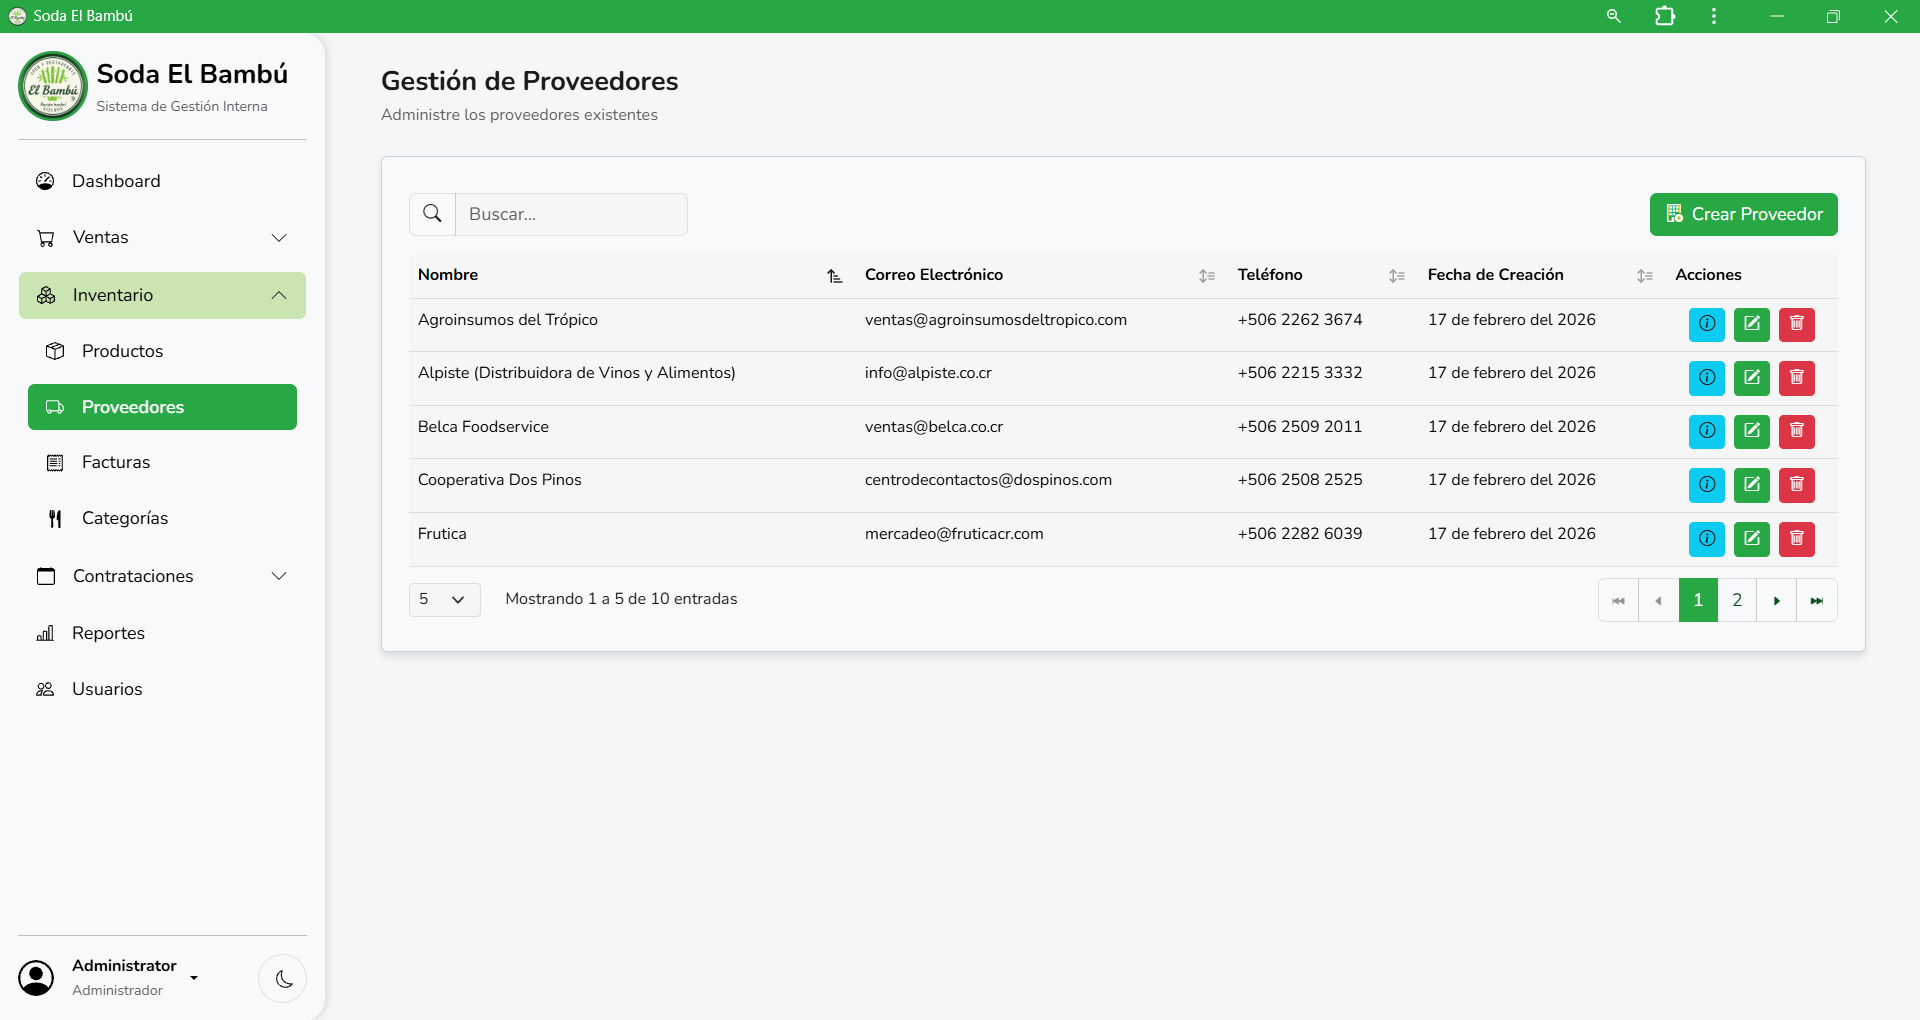
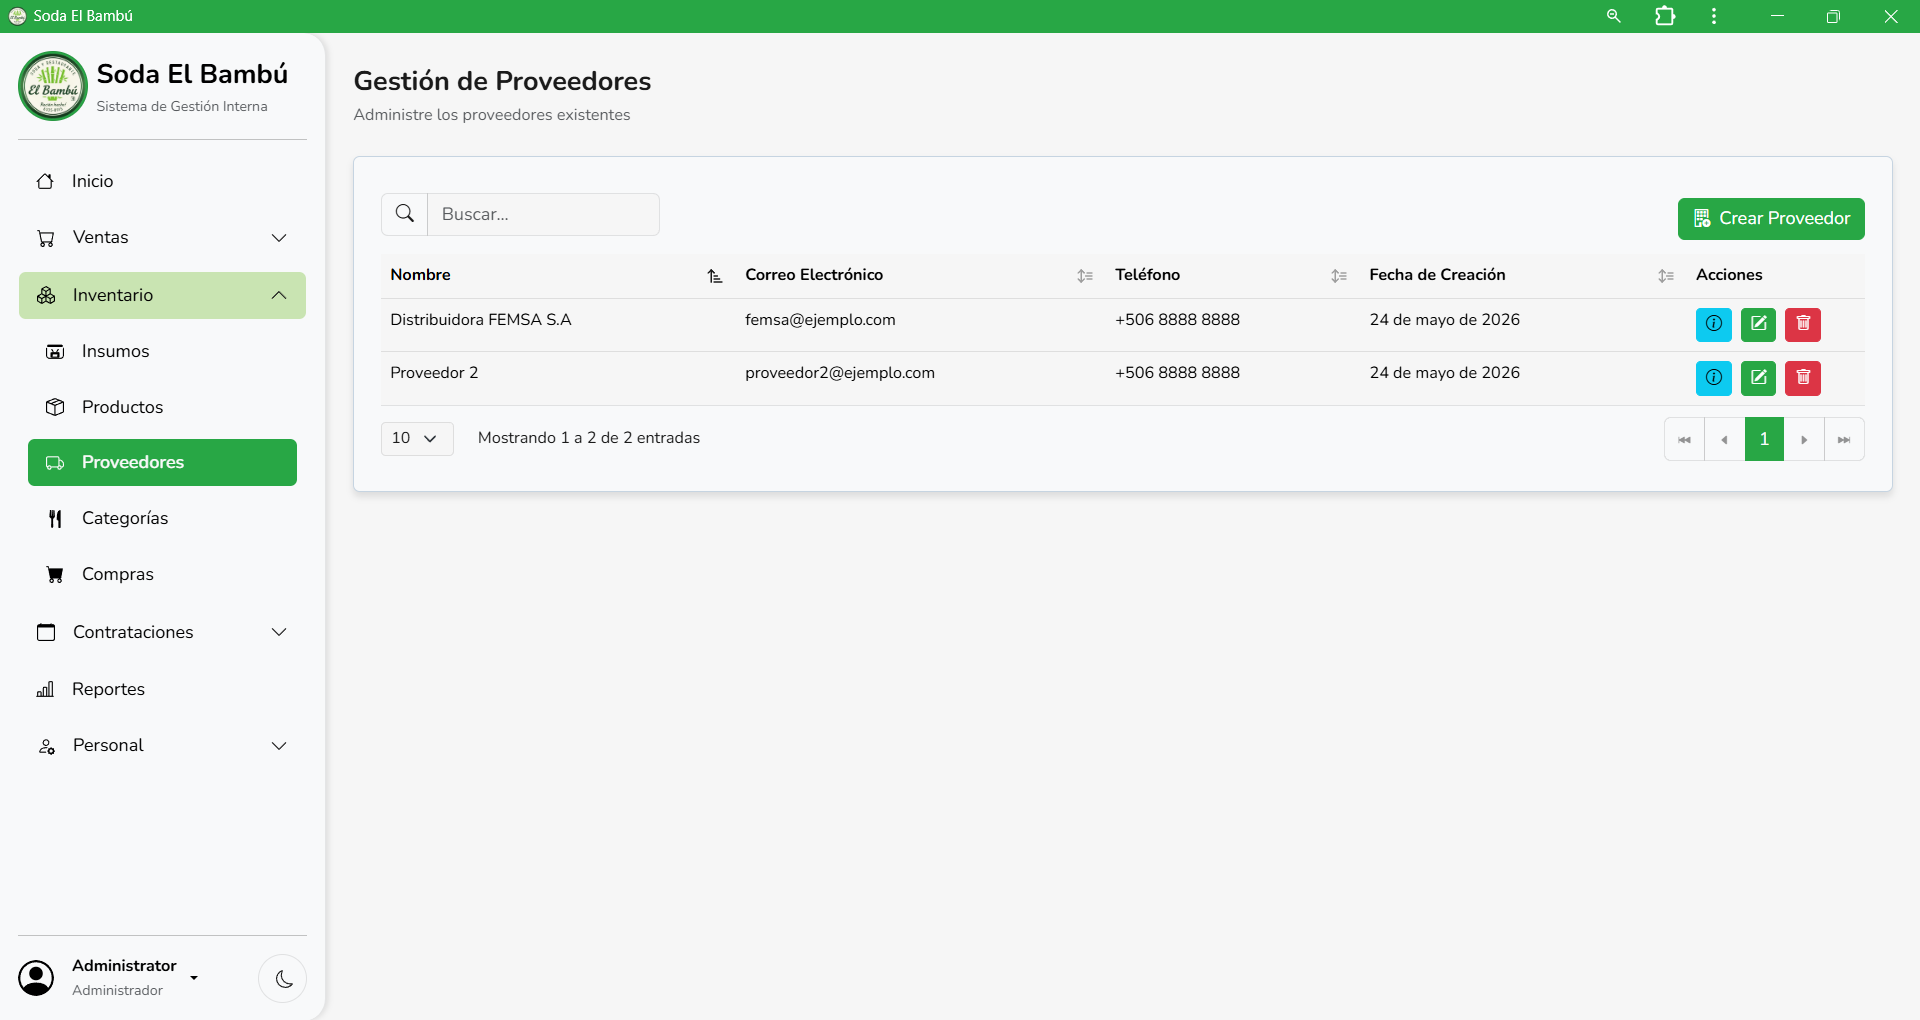
24-05-2026 Updates README to reflect new features and structure
- Enhances the README by clarifying and organizing the descriptions of system functionalities.
- Removes outdated notes about feature availability and adds detailed explanations for new modules, such as "Compras," "Reportes," and "Administración de Datos y Caja."
- Updates user interface screenshots to maintain consistency with the new functionalities.
- Improves overall readability and accessibility of the documentation for better user guidance.

diff --git a/README.md b/README.md
@@ -108,8 +108,6 @@ Esta estructura garantiza el control y la seguridad del acceso al sistema.
 
 En el sistema, las funcionalidades se organizan en módulos según el rol del usuario:
 
-> **Nota:** Muchas de las funcionalidades aún están en desarrollo, por lo que es posible que algunas de las funciones mencionadas a continuación no estén disponibles en la versión actual del sistema. Sin embargo, se espera que estas funcionalidades estén implementadas y operativas en futuras versiones del proyecto.
-
 #### 👤 Para Administradores
 
 1. **Gestión de Usuarios**
@@ -120,24 +118,36 @@ En el sistema, las funcionalidades se organizan en módulos según el rol del us
   - Visualiza métricas clave del sistema
   - Monitorea productos con stock bajo y próximos a vencer
 
-3. **Gestión de Catálogo**
+3. **Gestión de Catálogo e Inventario**
   - Administra productos, categorías, proveedores, clientes e insumos
   - Gestiona inventario con validaciones de negocio
 
-4. **Asistencia y Nómina**
+4. **Compras**
+  - Registra, edita, elimina y consulta compras a proveedores
+  - Revisa detalles por producto o insumo y pagos asociados
+
+5. **Reportes y Analítica**
+  - Consulta históricos y vistas detalladas de compras
+  - Genera reportes operativos para productos, ventas y suministros
+
+6. **Asistencia y Nómina**
   - Registra entradas y salidas del personal
   - Consulta historial por filtros y calcula salarios por periodo
 
-5. **Administración de Datos**
+7. **Administración de Datos y Caja**
   - Opera listados con búsqueda, filtros, ordenamiento y exportación
+  - Gestiona cierres y controles de caja para el flujo operativo
 
 #### 💼 Para Empleados
 
 1. **Punto de Venta**
   - Accede al módulo de ventas según permisos
 
-2. **Consulta de Inventario**
-  - Consulta disponibilidad de productos en el sistema
+2. **Consulta de Inventario y Catálogo**
+  - Consulta disponibilidad de productos, insumos y proveedores relacionados
+
+3. **Historial Operativo**
+  - Visualiza información de ventas y compras según los permisos definidos
   
 > **Nota:** Las funcionalidades disponibles pueden variar según el rol asignado a cada usuario. Asegúrate de iniciar sesión con el rol correcto para acceder a las funciones correspondientes.
 
@@ -554,23 +564,6 @@ Módulo para administrar la información de clientes del restaurante.
 
 ---
 
-### 🏢 Gestión de Proveedores
-
-Administración centralizada de proveedores e información de contacto.
-
-<div style="display: flex; gap: 20px; justify-content: center; align-items: flex-start;">
-  <div style="flex: 1; text-align: center;">
-    <h5>Tema Oscuro</h5>
-    <img src="assets/images/screenshots/suppliers_dark.png" alt="Proveedores Oscuro" style="max-width: 100%; height: auto; border-radius: 8px;">
-  </div>
-  <div style="flex: 1; text-align: center;">
-    <h5>Tema Claro</h5>
-    <img src="assets/images/screenshots/suppliers_light.png" alt="Proveedores Claro" style="max-width: 100%; height: auto; border-radius: 8px;">
-  </div>
-</div>
-
----
-
 ### 👤 Gestión de Usuarios
 
 Control de acceso y administración de cuentas de usuario del sistema.
@@ -583,6 +576,188 @@ Control de acceso y administración de cuentas de usuario del sistema.
   <div style="flex: 1; text-align: center;">
     <h5>Tema Claro</h5>
     <img src="assets/images/screenshots/users_light.png" alt="Usuarios Claro" style="max-width: 100%; height: auto; border-radius: 8px;">
+  </div>
+</div>
+
+---
+
+### 💼 Punto de Venta
+
+Pantalla principal para registrar ventas y operar el punto de venta.
+
+<div style="display: flex; gap: 20px; justify-content: center; align-items: flex-start;">
+  <div style="flex: 1; text-align: center;">
+    <h5>Tema Oscuro</h5>
+    <img src="assets/images/screenshots/sales_dark.png" alt="Ventas Oscuro" style="max-width: 100%; height: auto; border-radius: 8px;">
+  </div>
+  <div style="flex: 1; text-align: center;">
+    <h5>Tema Claro</h5>
+    <img src="assets/images/screenshots/sales_light.png" alt="Ventas Claro" style="max-width: 100%; height: auto; border-radius: 8px;">
+  </div>
+</div>
+
+---
+
+### 🧾 Gestión de Compras
+
+Módulo para registrar, consultar y analizar compras a proveedores.
+
+<div style="display: flex; gap: 20px; justify-content: center; align-items: flex-start;">
+  <div style="flex: 1; text-align: center;">
+    <h5>Tema Oscuro</h5>
+    <img src="assets/images/screenshots/purchases_dark.png" alt="Compras Oscuro" style="max-width: 100%; height: auto; border-radius: 8px;">
+  </div>
+  <div style="flex: 1; text-align: center;">
+    <h5>Tema Claro</h5>
+    <img src="assets/images/screenshots/purchases_light.png" alt="Compras Claro" style="max-width: 100%; height: auto; border-radius: 8px;">
+  </div>
+</div>
+
+---
+
+### 📦 Gestión de Inventario
+
+Vista para administrar productos, categorías, insumos y proveedores.
+
+<div style="display: flex; gap: 20px; justify-content: center; align-items: flex-start;">
+  <div style="flex: 1; text-align: center;">
+    <h5>Tema Oscuro</h5>
+    <img src="assets/images/screenshots/products_dark.png" alt="Productos Oscuro" style="max-width: 100%; height: auto; border-radius: 8px;">
+  </div>
+  <div style="flex: 1; text-align: center;">
+    <h5>Tema Claro</h5>
+    <img src="assets/images/screenshots/products_light.png" alt="Productos Claro" style="max-width: 100%; height: auto; border-radius: 8px;">
+  </div>
+</div>
+
+<div style="display: flex; gap: 20px; justify-content: center; align-items: flex-start;">
+  <div style="flex: 1; text-align: center;">
+    <img src="assets/images/screenshots/categories_dark.png" alt="Categorías Oscuro" style="max-width: 100%; height: auto; border-radius: 8px;">
+  </div>
+  <div style="flex: 1; text-align: center;">
+    <img src="assets/images/screenshots/categories_light.png" alt="Categorías Claro" style="max-width: 100%; height: auto; border-radius: 8px;">
+  </div>
+</div>
+
+<div style="display: flex; gap: 20px; justify-content: center; align-items: flex-start;">
+  <div style="flex: 1; text-align: center;">
+    <img src="assets/images/screenshots/supplies_dark.png" alt="Insumos Oscuro" style="max-width: 100%; height: auto; border-radius: 8px;">
+  </div>
+  <div style="flex: 1; text-align: center;">
+    <img src="assets/images/screenshots/supplies_light.png" alt="Insumos Claro" style="max-width: 100%; height: auto; border-radius: 8px;">
+  </div>
+</div>
+
+<div style="display: flex; gap: 20px; justify-content: center; align-items: flex-start;">
+  <div style="flex: 1; text-align: center;">
+    <img src="assets/images/screenshots/suppliers_dark.png" alt="Proveedores Oscuro" style="max-width: 100%; height: auto; border-radius: 8px;">
+  </div>
+  <div style="flex: 1; text-align: center;">
+    <img src="assets/images/screenshots/suppliers_light.png" alt="Proveedores Claro" style="max-width: 100%; height: auto; border-radius: 8px;">
+  </div>
+</div>
+
+---
+
+### 👥 Asistencia y Nómina
+
+Pantalla para registrar asistencia, consultar historial y calcular salarios.
+
+<div style="display: flex; gap: 20px; justify-content: center; align-items: flex-start;">
+  <div style="flex: 1; text-align: center;">
+    <h5>Tema Oscuro</h5>
+    <img src="assets/images/screenshots/attendance_dark.png" alt="Asistencia Oscuro" style="max-width: 100%; height: auto; border-radius: 8px;">
+  </div>
+  <div style="flex: 1; text-align: center;">
+    <h5>Tema Claro</h5>
+    <img src="assets/images/screenshots/attendance_light.png" alt="Asistencia Claro" style="max-width: 100%; height: auto; border-radius: 8px;">
+  </div>
+</div>
+
+<div style="display: flex; gap: 20px; justify-content: center; align-items: flex-start;">
+  <div style="flex: 1; text-align: center;">
+    <img src="assets/images/screenshots/attendance_history_dark.png" alt="Historial de Asistencia Oscuro" style="max-width: 100%; height: auto; border-radius: 8px;">
+  </div>
+  <div style="flex: 1; text-align: center;">
+    <img src="assets/images/screenshots/attendance_history_light.png" alt="Historial de Asistencia Claro" style="max-width: 100%; height: auto; border-radius: 8px;">
+  </div>
+</div>
+
+<div style="display: flex; gap: 20px; justify-content: center; align-items: flex-start;">
+  <div style="flex: 1; text-align: center;">
+    <img src="assets/images/screenshots/salary_dark.png" alt="Cálculo de Salarios Oscuro" style="max-width: 100%; height: auto; border-radius: 8px;">
+  </div>
+  <div style="flex: 1; text-align: center;">
+    <img src="assets/images/screenshots/salary_light.png" alt="Cálculo de Salarios Claro" style="max-width: 100%; height: auto; border-radius: 8px;">
+  </div>
+</div>
+
+---
+
+### 📈 Reportes
+
+Pantalla para consultar reportes operativos y analítica del sistema.
+
+<div style="display: flex; gap: 20px; justify-content: center; align-items: flex-start;">
+  <div style="flex: 1; text-align: center;">
+    <h5>Tema Oscuro</h5>
+    <img src="assets/images/screenshots/sales_reports_dark.png" alt="Reportes de Ventas Oscuro" style="max-width: 100%; height: auto; border-radius: 8px;">
+  </div>
+  <div style="flex: 1; text-align: center;">
+    <h5>Tema Claro</h5>
+    <img src="assets/images/screenshots/sales_reports_light.png" alt="Reportes de Ventas Claro" style="max-width: 100%; height: auto; border-radius: 8px;">
+  </div>
+</div>
+
+<div style="display: flex; gap: 20px; justify-content: center; align-items: flex-start;">
+  <div style="flex: 1; text-align: center;">
+    <img src="assets/images/screenshots/products_reports_dark.png" alt="Reportes de Productos Oscuro" style="max-width: 100%; height: auto; border-radius: 8px;">
+  </div>
+  <div style="flex: 1; text-align: center;">
+    <img src="assets/images/screenshots/products_reports_light.png" alt="Reportes de Productos Claro" style="max-width: 100%; height: auto; border-radius: 8px;">
+  </div>
+</div>
+
+---
+
+### 💳 Cierre y Control de Caja
+
+Vista para gestionar apertura, cierre y seguimiento de caja.
+
+<div style="display: flex; gap: 20px; justify-content: center; align-items: flex-start;">
+  <div style="flex: 1; text-align: center;">
+    <h5>Tema Oscuro</h5>
+    <img src="assets/images/screenshots/open-cash-register_dark.png" alt="Apertura de Caja Oscuro" style="max-width: 100%; height: auto; border-radius: 8px;">
+  </div>
+  <div style="flex: 1; text-align: center;">
+    <h5>Tema Claro</h5>
+    <img src="assets/images/screenshots/open-cash-register_light.png" alt="Apertura de Caja Claro" style="max-width: 100%; height: auto; border-radius: 8px;">
+  </div>
+</div>
+
+<div style="display: flex; gap: 20px; justify-content: center; align-items: flex-start;">
+  <div style="flex: 1; text-align: center;">
+    <img src="assets/images/screenshots/close-cash-register_dark.png" alt="Cierre de Caja Oscuro" style="max-width: 100%; height: auto; border-radius: 8px;">
+  </div>
+  <div style="flex: 1; text-align: center;">
+    <img src="assets/images/screenshots/close-cash-register_light.png" alt="Cierre de Caja Claro" style="max-width: 100%; height: auto; border-radius: 8px;">
+  </div>
+</div>
+
+---
+
+### 📄 Generación de Contratos
+
+Vista para generar un nuevo contrato.
+
+<div style="display: flex; gap: 20px; justify-content: center; align-items: flex-start;">
+  <div style="flex: 1; text-align: center;">
+    <h5>Tema Oscuro</h5>
+    <img src="assets/images/screenshots/new-contract_dark.png" alt="Nuevo Contrato Oscuro" style="max-width: 100%; height: auto; border-radius: 8px;">
+  </div>
+  <div style="flex: 1; text-align: center;">
+    <h5>Tema Claro</h5>
+    <img src="assets/images/screenshots/new-contract_light.png" alt="Nuevo Contrato Claro" style="max-width: 100%; height: auto; border-radius: 8px;">
   </div>
 </div>
 

diff --git a/source_code/README.md b/source_code/README.md
@@ -34,7 +34,18 @@ El sistema está diseñado como una aplicación web progresiva (PWA) que permite
 - **Dashboard administrativo**: visualización de indicadores de inventario (stock bajo y productos próximos a vencer).
 - **Ventas**: módulo de ventas disponible para administradores y empleados.
 - **Gestión de catálogo e inventario**: CRUD de productos, categorías, proveedores, clientes e insumos.
+- **Compras**: registro, edición, eliminación y consulta de compras con detalles por producto/insumo, pagos y reporte de suministros por proveedor.
+- **Reporte de compras**: historial de compras con filtros y vista detallada por proveedor para analizar qué productos o insumos han sido adquiridos.
+- **Catálogo de proveedores**: consulta de proveedores y relación directa con compras e insumos suministrados.
+- **Gestión de clientes**: administración de clientes para los módulos de atención y ventas.
+- **Gestión de categorías**: clasificación del catálogo de productos para mejorar búsqueda, inventario y reportes.
+- **Gestión de insumos**: control de insumos con sus unidades, precios y alertas de vencimiento.
 - **Asistencia de personal**: registro de entrada/salida, historial con filtros y cálculo de salario por periodo desde el módulo de asistencia.
+- **Contrataciones**: administración de empleados, contratos y documentación asociada.
+- **Reportes**: generación de reportes operativos y exportaciones para productos y ventas.
+- **Usuarios y permisos**: administración de usuarios, roles y accesos internos del sistema.
+- **Cierre y control de caja**: funcionalidades relacionadas con la apertura y cierre de caja para el flujo operativo del POS.
+- **Recibos y comprobantes**: visualización de recibos y comprobantes de venta/compra desde las pantallas de detalle.
 - **Tablas avanzadas**: listados con búsqueda, filtros, ordenamiento y exportación.
 - **Notificaciones y UX**: alertas del sistema, soporte de estados de conexión y diseño responsive.
 - **PWA**: recursos para instalación como aplicación web progresiva y soporte offline básico.
